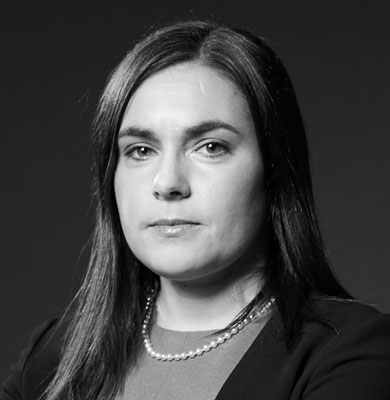
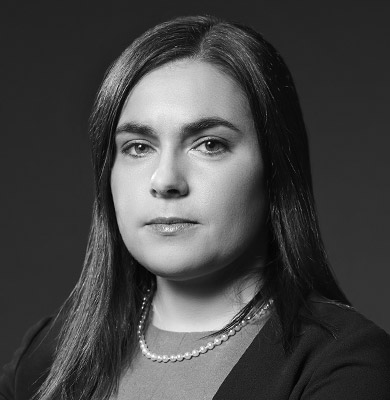
Updating 2ndary lawyer pics and building out mobile contact page

diff --git a/multi-page/main.css b/multi-page/main.css
@@ -471,7 +471,7 @@ h1.case-number a:hover { color: #b8bdbe; }
 
 #home-main .contact-container p { text-align: left !important; }
 
-
+.map { width: 740px; }
 
 
 
@@ -653,6 +653,21 @@ h1.case-number a:hover { color: #b8bdbe; }
 		color: initial;
 	}
 
+	/*CONTACT*/
+
+	.contact-container { 
+		flex-direction: column;
+		width: 90%;
+		margin-bottom: 20px;
+
+	}
+	.address { margin-bottom: 20px; }
+
+	.map { 
+		width: 100%;
+		margin: 0 auto;
+	}
+
 
 	/*NOTABLE*/
 
@@ -665,6 +680,7 @@ h1.case-number a:hover { color: #b8bdbe; }
 		flex-direction: column; 
 		margin-bottom: 0px;
 	}
+	.image:hover:after { opacity: 0; }
 
 
 

diff --git a/multi-page/contact.html b/multi-page/contact.html
@@ -65,7 +65,7 @@
 				<div class="map">
 					<!-- <img src="images/map.jpg" alt=""> -->
 					<iframe
-					  width="740"
+					  width="100%"
 					  height="530"
 					  frameborder="0" style="border:0"
 					  src="https://www.google.com/maps/embed?pb=!1m18!1m12!1m3!1d2887.082884757213!2d-79.38421838438238!3d43.64644386088528!2m3!1f0!2f0!3f0!3m2!1i1024!2i768!4f13.1!3m3!1m2!1s0x882b34d31b6d9423%3A0x7a4be543e6657fae!2s95+Wellington+St+W%2C+Toronto%2C+ON+M5J!5e0!3m2!1sen!2sca!4v1520029517137" allowfullscreen>

diff --git a/multi-page/gillianhnatiw.html b/multi-page/gillianhnatiw.html
@@ -46,7 +46,7 @@
 		<section id="home-main">
 	    	<div class="lawyer-container">
 	    		<div class="left-side">
-	    			<img src="images/gillian.jpg" alt="">
+	    			<img src="images/gillian-detail.jpg" alt="">
 	    			<p>Contact:
 					<br />
 	    			<strong><span style="color:#969a9c;">T</span></strong> <a href="tel:1-416-642-8893">&nbsp;416 941 5895</a>

diff --git a/multi-page/melissamustafa.html b/multi-page/melissamustafa.html
@@ -46,7 +46,7 @@
 		<section id="home-main">
 	    	<div class="lawyer-container">
 	    		<div class="left-side">
-	    			<img src="images/melissa.jpg" alt="">
+	    			<img src="images/melissa-detail.jpg" alt="">
 	    			<p>Contact:
 					<br />
 	    			<strong><span style="color:#969a9c;">T</span></strong> <a href="tel:1-416-642-8893">&nbsp;416 642 8893</a>

diff --git a/multi-page/jordangoldblatt.html b/multi-page/jordangoldblatt.html
@@ -46,7 +46,7 @@
 		<section id="home-main">
 	    	<div class="lawyer-container">
 	    		<div class="left-side">
-	    			<img src="images/jordan.jpg" alt="">
+	    			<img src="images/jordan-detail.jpg" alt="">
 	    			<p>Contact:
 					<br />
 	    			<strong><span style="color:#969a9c;">T</span></strong> <a href="tel:1-416-920-9777">&nbsp;416 920 9777</a>

diff --git a/multi-page/juliawilkes.html b/multi-page/juliawilkes.html
@@ -46,7 +46,7 @@
 		<section id="home-main">
 	    	<div class="lawyer-container">
 	    		<div class="left-side">
-	    			<img src="images/julia.jpg" alt="">
+	    			<img src="images/julia-detail.jpg" alt="">
 	    			<p>Contact:
 					<br />
 	    			<strong><span style="color:#969a9c;">T</span></strong> <a href="tel:1-416-351-2790">&nbsp;416 351 2790</a>

diff --git a/multi-page/alexfidler-wener.html b/multi-page/alexfidler-wener.html
@@ -46,7 +46,7 @@
 		<section id="home-main">
 	    	<div class="lawyer-container">
 	    		<div class="left-side">
-	    			<img src="images/alex.jpg" alt="">
+	    			<img src="images/alex-detail.jpg" alt="">
 	    			<p>Contact:
 					<br />
 	    			<strong><span style="color:#969a9c;">T</span></strong> <a href="tel:1-416-351-2791">&nbsp;416 351 2791</a>

diff --git a/multi-page/gordmcguire.html b/multi-page/gordmcguire.html
@@ -46,7 +46,7 @@
 		<section id="home-main">
 	    	<div class="lawyer-container">
 	    		<div class="left-side">
-	    			<img src="images/gord.jpg" alt="">
+	    			<img src="images/gord-detail.jpg" alt="">
 	    			<p>Contact:
 					<br />
 	    			<strong><span style="color:#969a9c;">T</span></strong> <a href="tel:1-416-351-2781">&nbsp;416 351 2781</a>

diff --git a/multi-page/irisgraham.html b/multi-page/irisgraham.html
@@ -46,7 +46,7 @@
 		<section id="home-main">
 	    	<div class="lawyer-container">
 	    		<div class="left-side">
-	    			<img src="images/iris.jpg" alt="">
+	    			<img src="images/iris-detail.jpg" alt="">
 	    			<p>Contact:
 					<br />
 	    			<strong><span style="color:#969a9c;">T</span></strong> <a href="tel:1-416-351-2793">&nbsp;416 351 2793</a>

diff --git a/multi-page/johnadair.html b/multi-page/johnadair.html
@@ -46,7 +46,7 @@
 		<section id="home-main">
 	    	<div class="lawyer-container">
 	    		<div class="left-side">
-	    			<img src="images/john.jpg" alt="">
+	    			<img src="images/john-detail.jpg" alt="">
 	    			<p>Contact:
 					<br />
 	    			<strong><span style="color:#969a9c;">T</span></strong> <a href="tel:1-416-641-5866">&nbsp;416 641 5866</a>

diff --git a/multi-page/nateread-ellis.html b/multi-page/nateread-ellis.html
@@ -46,7 +46,7 @@
 		<section id="home-main">
 	    	<div class="lawyer-container">
 	    		<div class="left-side">
-	    			<img src="images/nate.jpg" alt="">
+	    			<img src="images/nate-detail.jpg" alt="">
 	    			<p>Contact:
 					<br />
 	    			<strong><span style="color:#969a9c;">T</span></strong> <a href="tel:1-416-351-2789">&nbsp;416 351 2789</a>

diff --git a/multi-page/our-lawyers.html b/multi-page/our-lawyers.html
@@ -127,7 +127,7 @@
 				<div class="lawyer" id="gord-mcguire">
 					<a href="gordmcguire.html">
 						<div class="image">
-							<img src="images/gord.jpg" alt="">
+							<img src="images/gord-detail.jpg" alt="">
 						</div>
 					</a>
 					<h1>Gord McGuire</h1>
